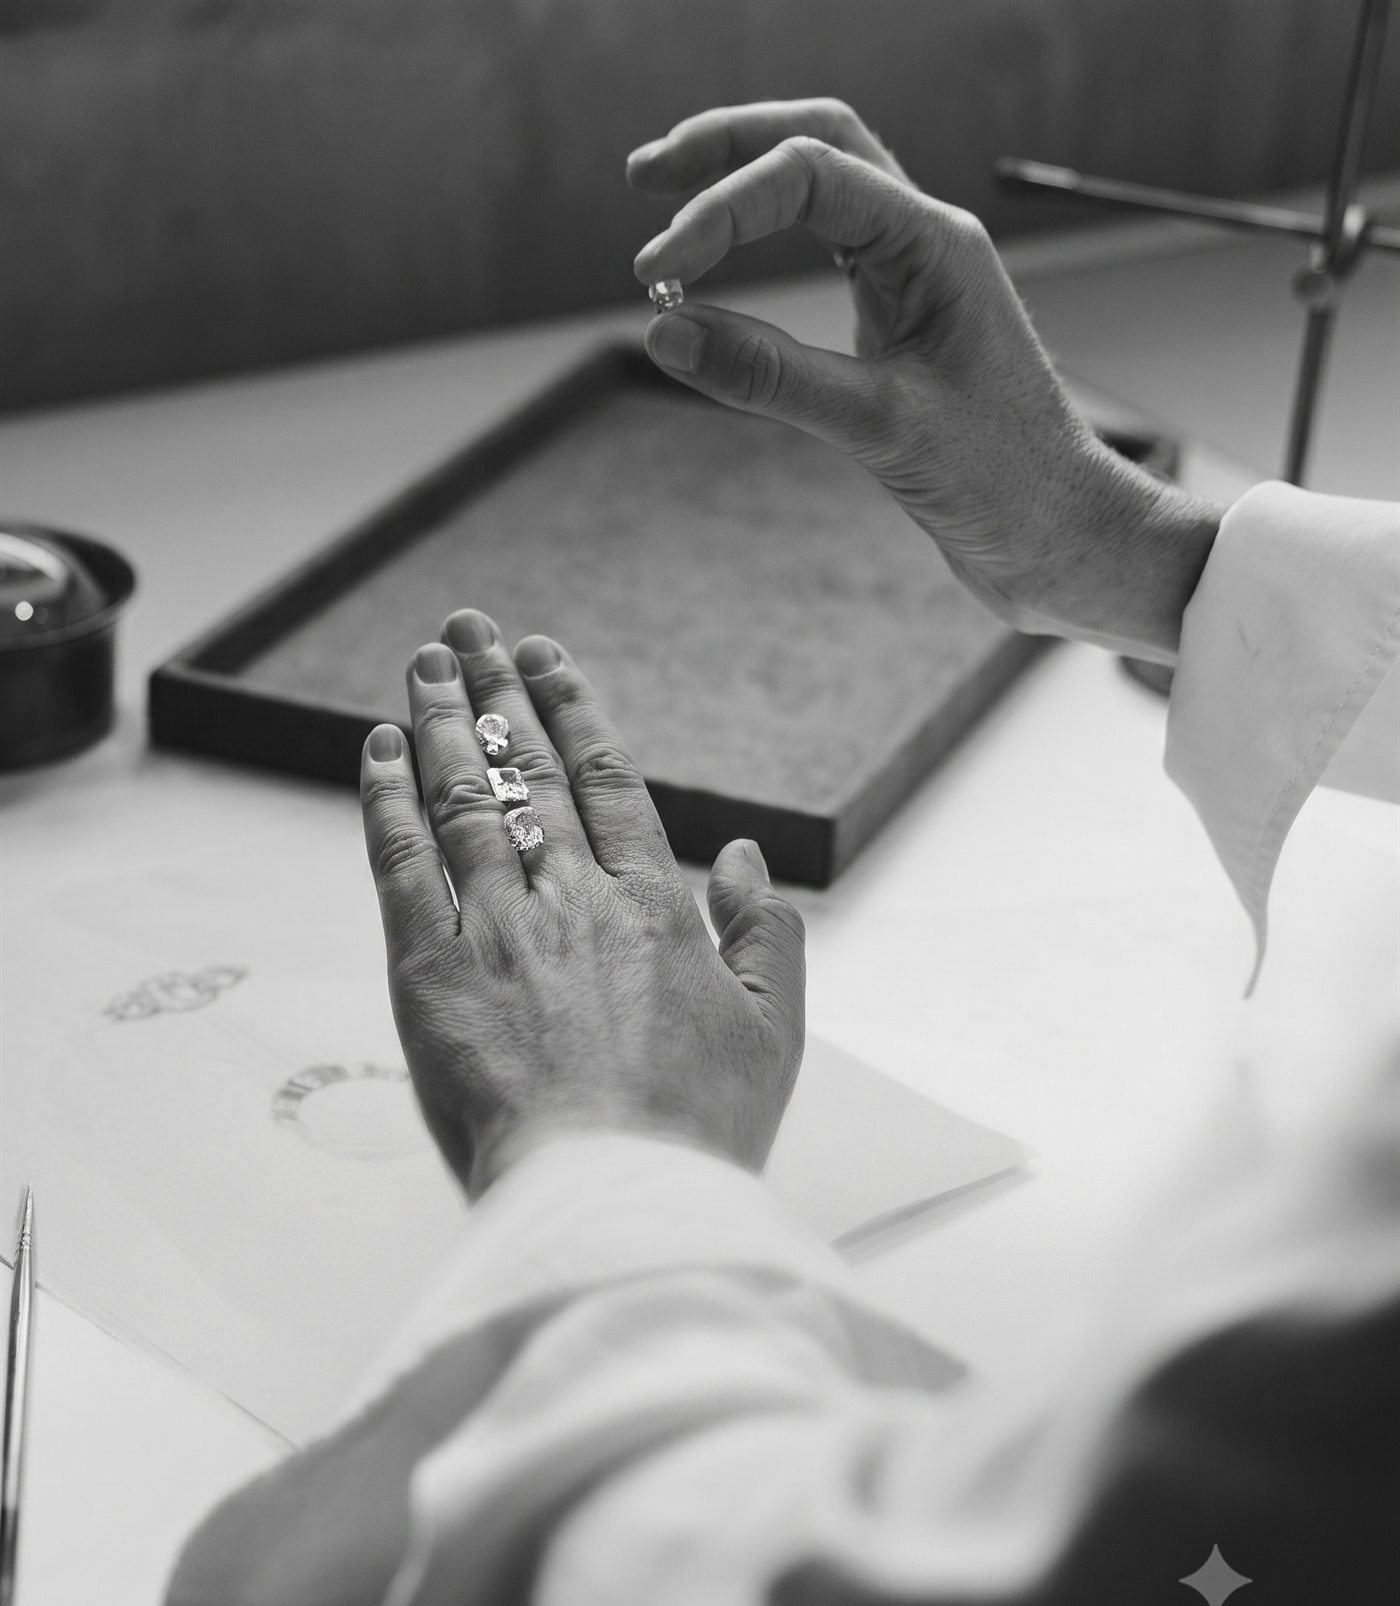
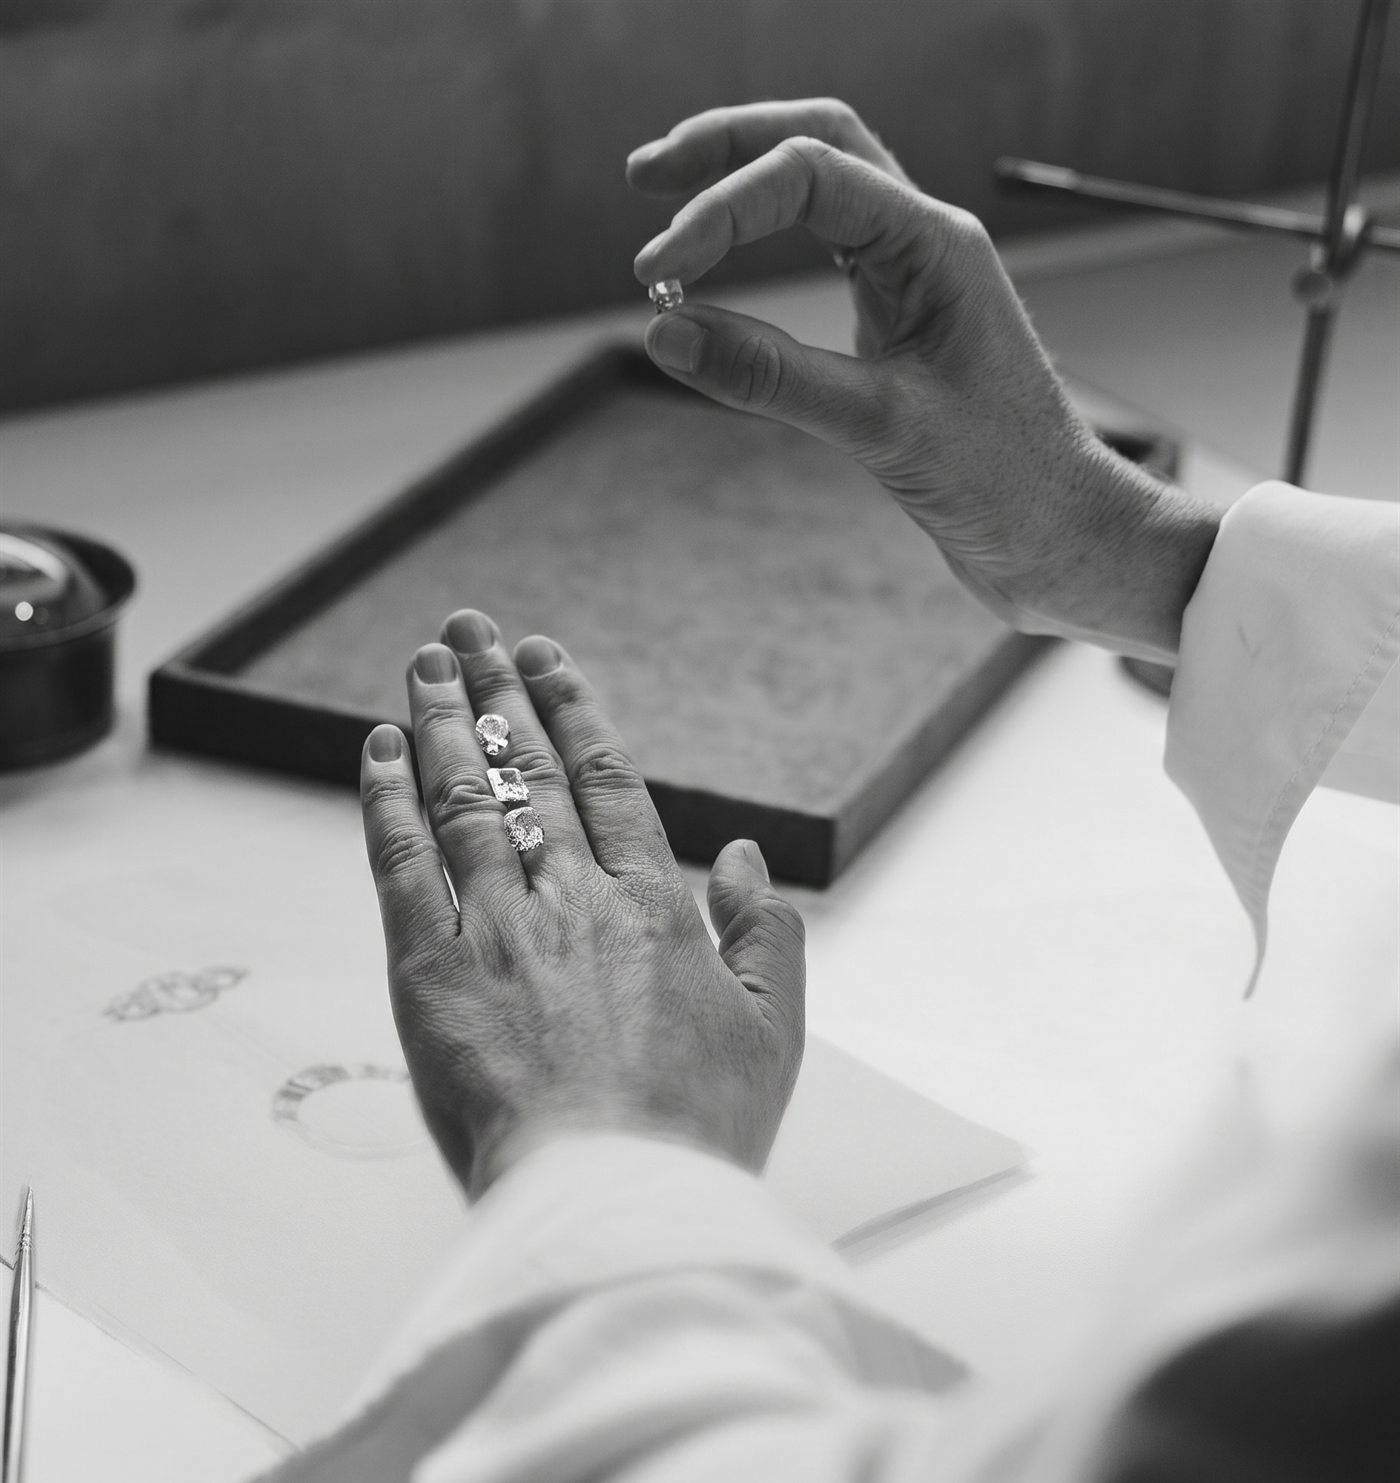
Rework proof stats + polish mobile
- Proof: '01' meant nothing and '15' was a street number posing as a metric. Now 143 years / 09 designs / 1:1 consult / 24h reply, each with matching copy
- Shorten '09' title so it stays on one line in the 2x2 mobile grid
- Atelier photo: previous crop missed the AI sparkle watermark (sat at 87%, not 92%) -> recrop
- Bump hero kicker 8.3->9.9px and drawer address 9->10.2px

diff --git a/index.html b/index.html
@@ -112,23 +112,23 @@
     <div class="proof-grid">
       <div class="proof-item rv">
         <span class="proof-no">143</span>
-        <h3>Nền tảng Antwerp</h3>
-        <p>Chuẩn mực về tỷ lệ, chất liệu và độ hoàn thiện được giải thích bằng ngôn ngữ dễ hiểu khi tư vấn.</p>
+        <h3>Năm di sản Antwerp</h3>
+        <p>Kế thừa chuẩn mực chế tác kim hoàn Antwerp — Bỉ, gìn giữ qua nhiều thế hệ.</p>
       </div>
       <div class="proof-item rv">
-        <span class="proof-no">01</span>
+        <span class="proof-no">09</span>
+        <h3>Thiết kế độc bản</h3>
+        <p>Mỗi mẫu mang một câu chuyện riêng, không phải thiết kế bán sẵn đại trà.</p>
+      </div>
+      <div class="proof-item rv">
+        <span class="proof-no">1:1</span>
         <h3>Tư vấn riêng</h3>
-        <p>Bắt đầu từ mẫu bạn thích, chất liệu mong muốn, ngân sách dự kiến và lịch cưới.</p>
-      </div>
-      <div class="proof-item rv">
-        <span class="proof-no">15</span>
-        <h3>Showroom Nhà Thờ</h3>
-        <p>Xem mẫu trực tiếp tại Hoàn Kiếm. Đặt lịch trước để đội ngũ chuẩn bị đúng mẫu bạn quan tâm.</p>
+        <p>Bắt đầu từ gu thẩm mỹ, chất liệu và ngân sách của riêng hai bạn.</p>
       </div>
       <div class="proof-item rv">
         <span class="proof-no">24h</span>
-        <h3>Phản hồi trong 24h</h3>
-        <p>Thông tin chỉ dùng để tư vấn. Bạn nhận gợi ý ban đầu trước khi quyết định đến showroom.</p>
+        <h3>Phản hồi</h3>
+        <p>Đội ngũ liên hệ xác nhận lịch và gợi ý khoảng giá trong vòng 24 giờ.</p>
       </div>
     </div>
   </div>

diff --git a/css/style.css b/css/style.css
@@ -153,7 +153,7 @@ body.drawer-open .nav .menu-btn span,body.drawer-open .nav.scrolled .menu-btn sp
 .drawer-foot{display:flex;flex-direction:column;align-items:center;gap:1rem;padding-top:1.4rem;border-top:1px solid var(--line-dark)}
 .drawer-foot .btn{width:100%}
 .drawer-phone{font-size:.95rem;letter-spacing:.05em;color:var(--gold-bright);font-weight:500}
-.drawer-addr{font-size:.56rem;letter-spacing:.2em;text-transform:uppercase;color:var(--bone-dim)}
+.drawer-addr{font-size:.64rem;letter-spacing:.14em;text-transform:uppercase;color:var(--bone-dim)}
 
 /* ---------- buttons ---------- */
 .btn{position:relative;display:inline-flex;align-items:center;justify-content:center;gap:.6rem;font-family:var(--sans);font-weight:400;font-size:.66rem;letter-spacing:.2em;
@@ -542,7 +542,7 @@ body.form-active .mobile-bar{transform:translateY(105%);pointer-events:none}
   .hero-portrait img{object-position:64% 34%;filter:sepia(.42) saturate(1.35) brightness(1.07) contrast(1.02);animation:none}
   .hero::after{display:none}
   .hero-inner{padding:1.25rem var(--pad) 2.45rem;max-width:100%;background:linear-gradient(180deg,var(--ivory),var(--paper));box-shadow:0 -28px 44px -42px rgba(38,51,31,.6)}
-  .hero-kicker{margin-bottom:.55rem;font-size:.52rem;letter-spacing:.18em;line-height:1.45}
+  .hero-kicker{margin-bottom:.55rem;font-size:.62rem;letter-spacing:.16em;line-height:1.45}
   .hero-kicker::before{width:30px}
   .hero-title{font-size:clamp(1.95rem,7.4vw,2.5rem);line-height:1.1;max-width:none}
   .hero-lead{margin:.85rem 0 .95rem;max-width:100%;font-size:.9rem;line-height:1.55;color:var(--ink-soft)}